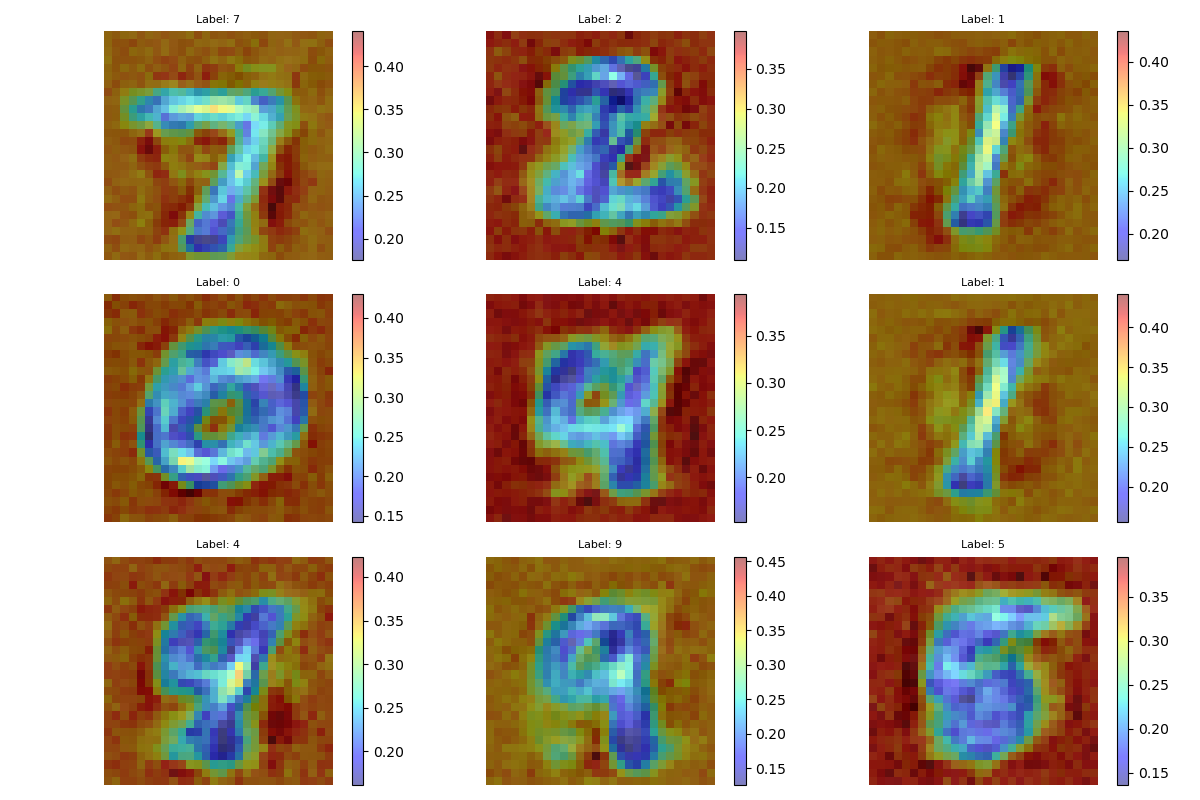
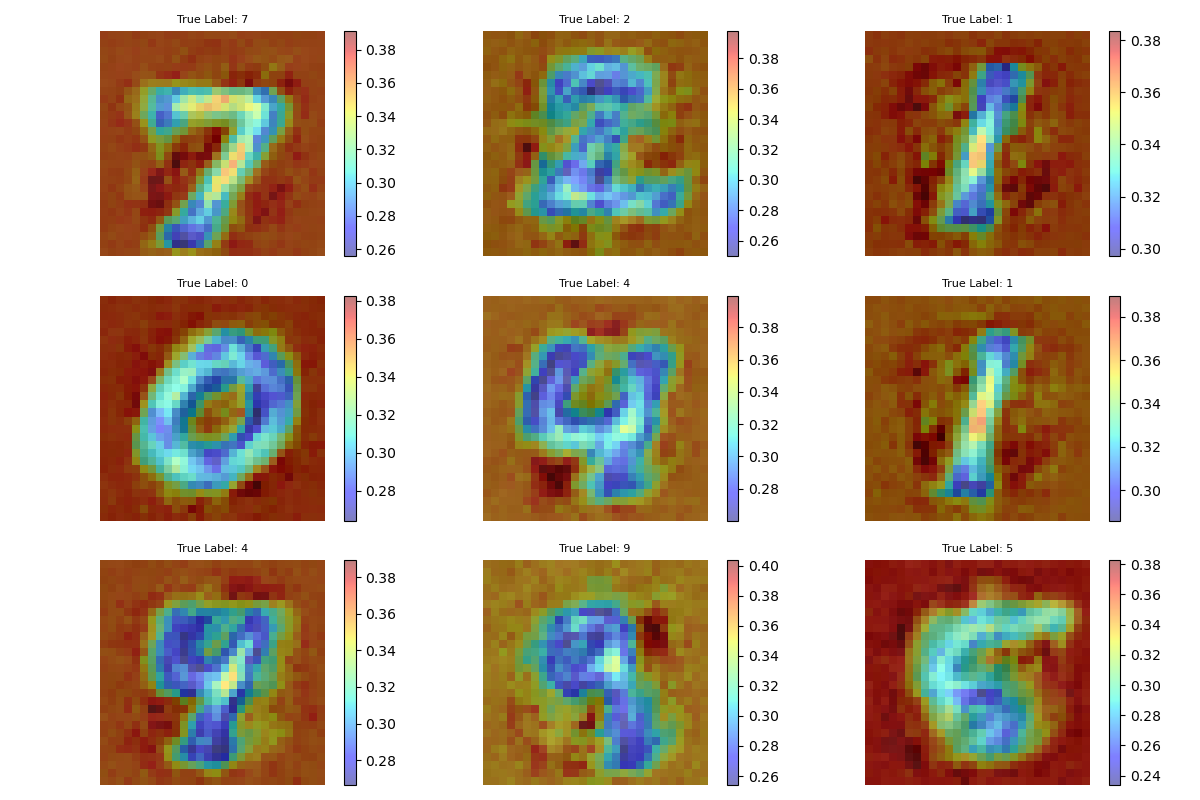
VAE_GAN_base

diff --git a/XAI/VAE_GAN_v1_base.py b/XAI/VAE_GAN_v1_base.py
@@ -115,7 +115,7 @@ Define parameters for the model
 class Config:
     batch_size = 100
     latent_dim = 20
-    epochs = 5
+    epochs = 10
     num_classes = 10
     img_dim = 28
     output_dim = 28 * 28
@@ -170,13 +170,12 @@ class Decoder(nn.Module):
         )
         self.flatten = nn.Flatten()
         self.fc = nn.Linear(64 * 7 * 7, Config.num_classes)
-        self.softmax = nn.Softmax(dim=1)
 
     def forward(self, x):
         x = self.conv(x)
         x = self.flatten(x)
         x = self.fc(x)
-        return self.softmax(x)
+        return x
 
 
 class ClusterVAE(nn.Module):
@@ -214,10 +213,10 @@ class Critic(nn.Module):
         super(Critic, self).__init__()
         self.main = nn.Sequential(
             nn.Linear(input_dim, 512),
-            # nn.LeakyReLU(0.2),
-            # nn.Linear(512, 256),
             nn.LeakyReLU(0.2),
-            nn.Linear(512, 784),
+            nn.Linear(512, 256),
+            nn.LeakyReLU(0.2),
+            nn.Linear(256, 784),
             nn.Sigmoid(),
         )
 
@@ -239,7 +238,7 @@ def loss_fn_vae(recon_x, x, z_mean, c, data):
 
     gaussian_loss = (z_mean - data) ** 2
     gaussian_loss = c * gaussian_loss
-    guassian_loss = gaussian_loss.sum(1)
+    gaussian_loss = gaussian_loss.sum(dim=(1, 2, 3))
     gaussian_loss = gaussian_loss.mean()
 
     total_loss = Config.lamb * recon_loss + gaussian_loss
@@ -256,13 +255,14 @@ def loss_fn_critic(x, z_mean, c, data, model):
 
     gaussian_loss = (z_mean - data) ** 2
     gaussian_loss = c * gaussian_loss
-    guassian_loss = gaussian_loss.sum(1)
+    gaussian_loss = gaussian_loss.sum(dim=(1, 2, 3))
     gaussian_loss = gaussian_loss.mean()
 
-    cat_loss = - torch.mean(c * torch.log(c + 1e-8))
+    cat_loss = c * torch.log(c + 1e-8)
+    cat_loss = cat_loss.sum(dim=(1, 2, 3)).mean()
 
-    # total_loss =  critic_loss + Config.lamb *cat_loss + gaussian_loss
-    total_loss =  critic_loss  + gaussian_loss
+    total_loss = critic_loss + Config.lamb * cat_loss + gaussian_loss
+    # total_loss = gaussian_loss
 
     return total_loss
 
@@ -303,15 +303,18 @@ for epoch in range(Config.epochs):
         with torch.no_grad():
             x = model(data)
             _, pred_base = x.max(1)
-            if torch.isnan(x).any():
-                print("NaN detected in model output x. Stopping training.")
-                break
             c = critic(x)
             if torch.isnan(c).any():
                 print("NaN detected in critic output c. Stopping training.")
-                break
+                # break
 
         output = c_vae(x)
+        recon_x, z, z_mean, z_logvar = (
+            output["recon"],
+            output["z"],
+            output["z_mean"],
+            output["z_logvar"],
+        )
         loss_vae = loss_fn_vae(output["recon"], x, output["z_mean"], c, data)
         total_loss_vae += loss_vae.item()
 
@@ -334,7 +337,6 @@ for epoch in range(Config.epochs):
         loss_critic = loss_fn_critic(x, output["z_mean"], c, data, model)
 
         loss_critic.backward()
-        torch.nn.utils.clip_grad_norm_(critic.parameters(), max_norm=1.0) # Gradient clipping
         critic_optimizer.step()
         total_loss_critic += loss_critic.item()
 
